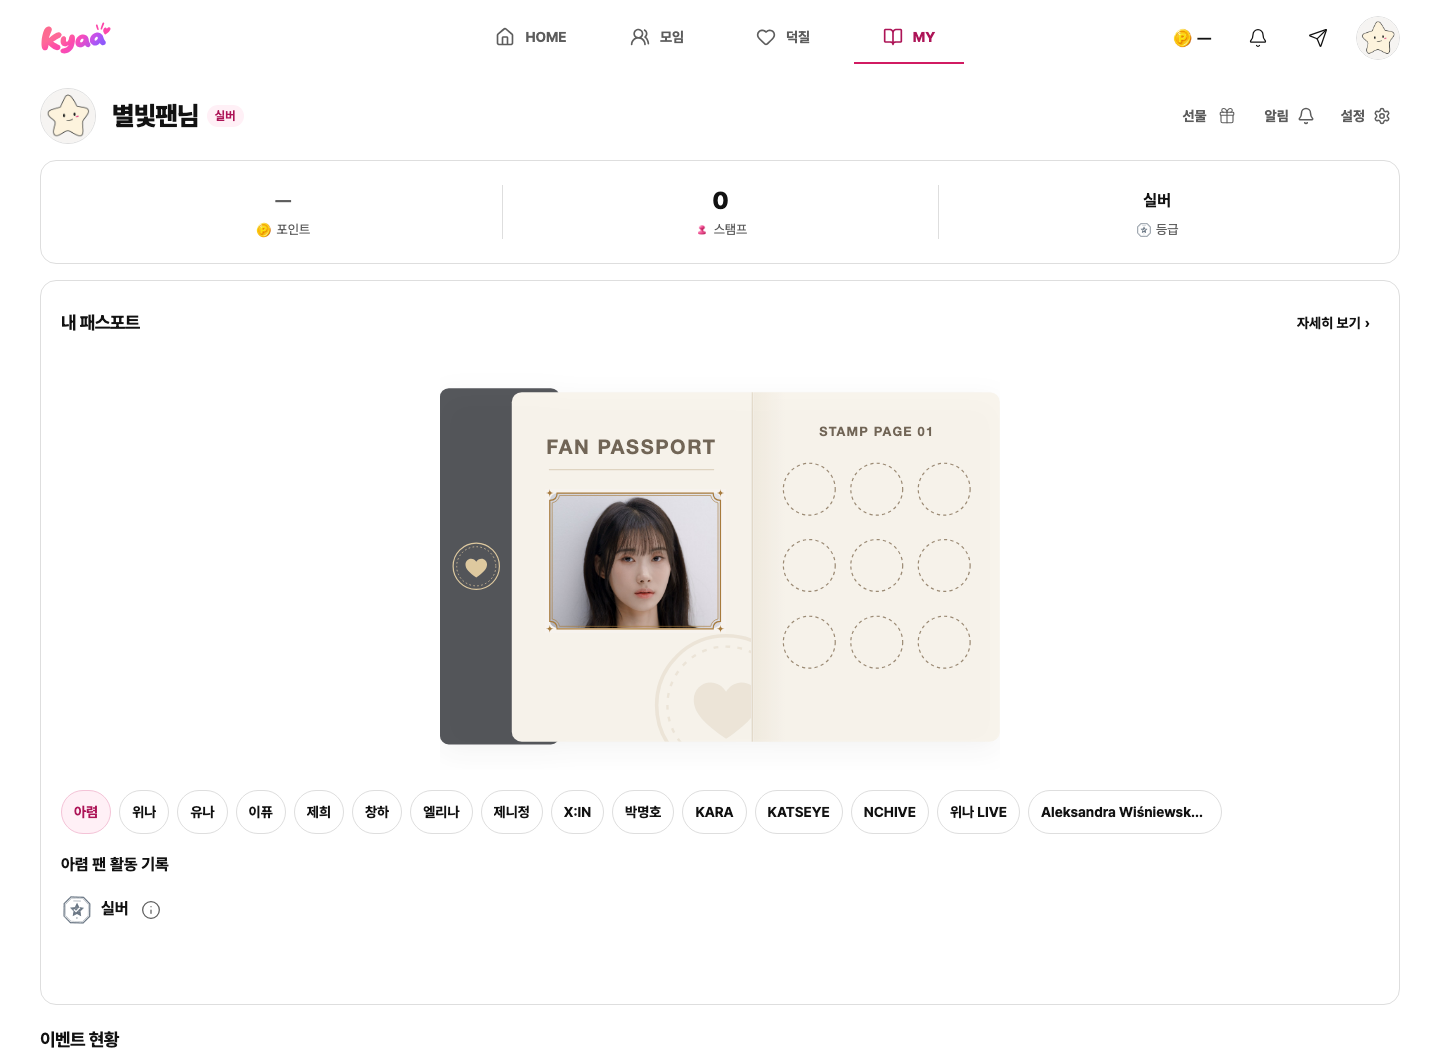
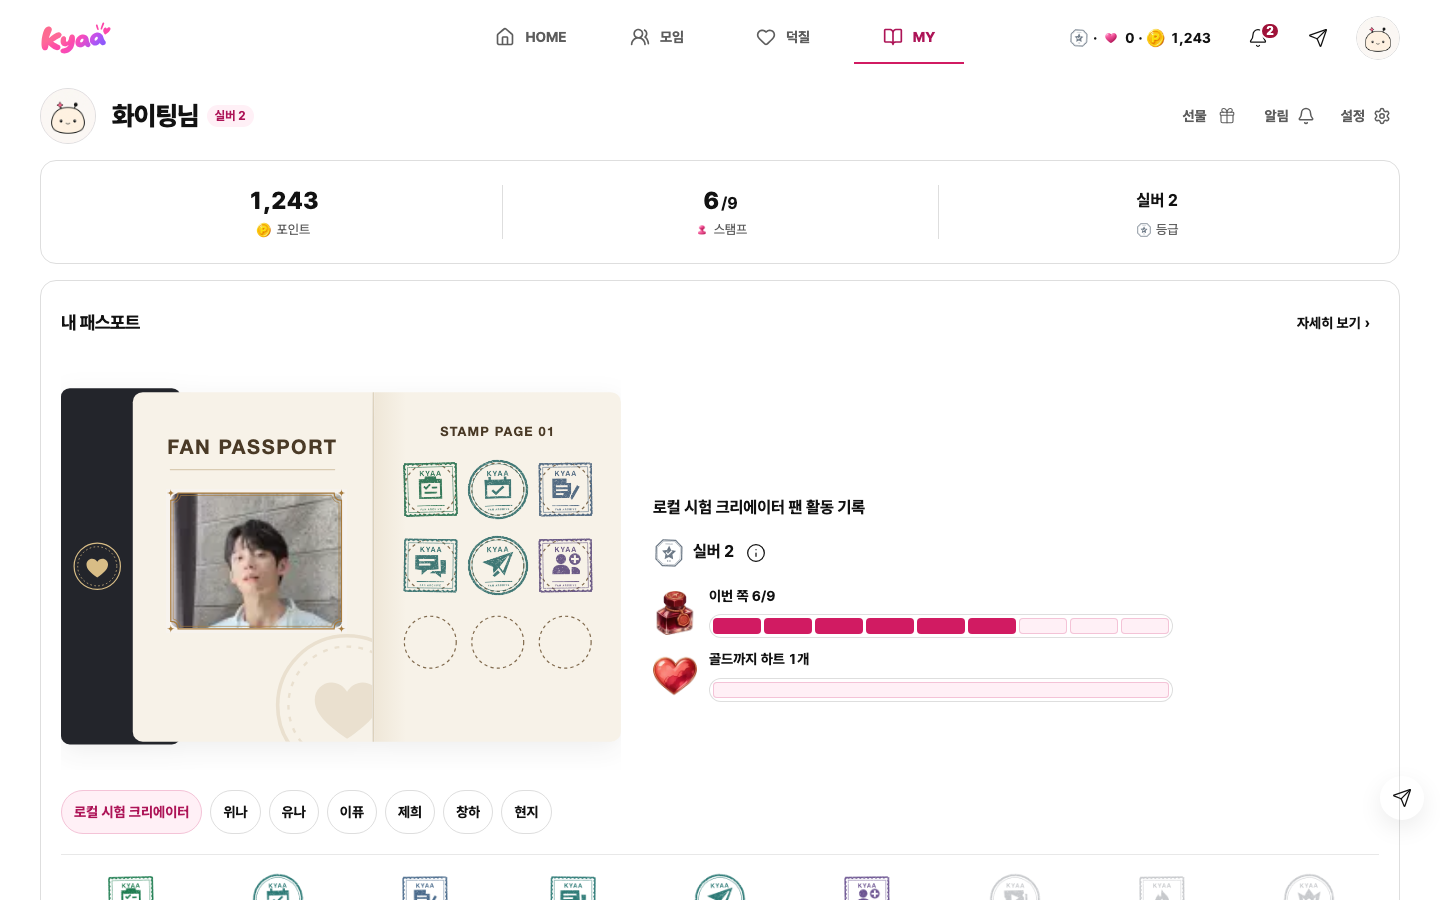
Fix MY profile alignment and desktop passport layout

diff --git a/apps/web/features/my/ui/my-passport-card.tsx b/apps/web/features/my/ui/my-passport-card.tsx
@@ -167,7 +167,7 @@ function PassportCreatorSelector({ selected, ordered, label, onSelect }: {
     chips.forEach((chip) => observer.observe(chip));
     return () => observer.disconnect();
   });
-  return <div ref={container}>
+  return <div ref={container} className={styles.chipRow}>
     <FanTabs className={styles.selector} variant="chip" label={label} current={selected} items={ordered.map(({ celebrity }) => ({
       key: celebrity.slug, label: <span className={styles.chipName} title={celebrity.name}>{celebrity.name}</span>, onSelect: () => onSelect(celebrity.slug),
     }))} />
@@ -213,7 +213,7 @@ export function MyPassportCardSkeleton({ title }: { title: string }) {
     <header><FanHeading>{title}</FanHeading></header>
     <div className={styles.body} aria-hidden="true">
       <span className={styles.bookSkeleton}><Image src="/images/passport/passport-open-book.svg" alt="" width={1536} height={1024} unoptimized sizes="(max-width:767px) 100vw, 380px" priority /></span>
-      {chips ? <div style={{ visibility: "hidden" }} aria-hidden="true" data-passport-chip-space><FanTabs className={styles.selector} variant="chip" label="" current="" items={[{ key: "space", label: "\u00a0" }]} /></div> : null}
+      {chips ? <div className={styles.chipRow} style={{ visibility: "hidden" }} aria-hidden="true" data-passport-chip-space><FanTabs className={styles.selector} variant="chip" label="" current="" items={[{ key: "space", label: "\u00a0" }]} /></div> : null}
       <div className={styles.facts}><FanSkeleton width="60%" height={24} /><FanSkeleton width="40%" height={32} /><FanSkeleton width="100%" height={40} /><FanSkeleton width="100%" height={40} /></div>
     </div>
     <div className={styles.slots} aria-hidden="true">{Array.from({ length: 9 }, (_, index) => <span className={styles.slot} key={index}><FanSkeleton shape="circle" width={48} height={48} /><FanSkeleton width={40} height={12} /></span>)}</div>

diff --git a/apps/web/features/my/ui/my-screen.module.css b/apps/web/features/my/ui/my-screen.module.css
@@ -371,7 +371,9 @@
 .pencilProfile>a{flex:none;width:56px;height:56px}
 .pencilProfileCopy{flex:1;min-width:0;display:grid;gap:4px}
 .pencilProfileCopy h1{overflow-wrap:anywhere}
-.pencilName{display:flex;flex-wrap:wrap;align-items:center;gap:var(--space-2)}
+.pencilName{display:flex;align-items:center;gap:var(--space-2)}
+.pencilName h1{min-width:0;overflow:hidden;text-overflow:ellipsis;white-space:nowrap}
+.pencilName > span{display:block;flex:none;max-inline-size:55%;overflow:hidden;text-overflow:ellipsis;white-space:nowrap}
 .pencilProfile nav{display:flex;gap:8px;align-items:center}
 .pencilMy .pencilProfile nav>a{min-height:44px;border-radius:12px;border-color:transparent;color:var(--color-muted);padding-inline:8px;font-size:14px}
 .homeRow{display:grid;grid-template-columns:minmax(0,1fr);gap:var(--space-5);align-items:start}
@@ -406,7 +408,7 @@
 
 
 /* Keep the profile and both summary cards on the same outer edges. */
-.pencilSummary { display:grid; gap:var(--space-4); }
+.pencilSummary { display:grid; grid-template-columns:minmax(0,1fr); min-width:0; gap:var(--space-4); }
 .pencilMy .pencilSummary .pencilProfile nav > a { justify-content:center; }
 @media (width < 48rem) {
   .pencilSummary { gap:var(--space-3); }

diff --git a/apps/web/features/my/ui/my-passport-card.module.css b/apps/web/features/my/ui/my-passport-card.module.css
@@ -79,5 +79,8 @@
   .myCard :is(.book, .bookSkeleton) { max-inline-size:380px; margin-inline:auto; }
 }
 @media (min-width:1024px) {
-  .myCard :is(.book, .bookSkeleton) { max-inline-size:560px; }
+  .myCard > .body { grid-template-columns:minmax(0,560px) minmax(0,1fr); column-gap:var(--space-8); }
+  .myCard :is(.book, .bookSkeleton) { max-inline-size:560px; grid-area:1 / 1; }
+  .myCard .chipRow { grid-area:2 / 1; }
+  .myCard .facts { grid-area:1 / 2 / span 2; }
 }

diff --git a/DESIGN.md b/DESIGN.md
@@ -228,6 +228,12 @@ radius-scale: "pill / 16px / 12px / 8px / 50%"
 - 360~1440 어느 폭에서도 가로 넘침·글자 잘림 0. 긴 번역은 잘라내지 않고 높이를 늘린다.
 - 측정: `node apps/web/scripts/measure-responsive.mjs`.
 
+### MY 상단
+
+- 프로필·숫자 요약·패스포트 카드의 바깥선을 맞춘다. 프로필의 아바타·이름과 등급·선물·알림·설정은 같은 중심선에 둔다. 이름과 등급은 한 줄에 두고 긴 이름은 말줄임한다. 등급이 이름 칸의 55%를 넘으면 등급도 말줄임한다. 프로필 높이는 모바일 48px, 데스크톱 56px이다.
+- 프로필과 숫자 요약 뒤 간격은 각각 768px 미만 12px, 768px 이상 16px이다. 모바일은 패스포트 그림 → 최애 칩 → 팬 활동 기록 순으로 놓고 390×844 첫 화면에 펼친 그림 전체를 보여준다.
+- 1024px 이상은 왼쪽 최대 560px에 패스포트 그림과 최애 칩, 오른쪽에 팬 활동 기록을 둔다. 최애 칩은 공통 `FanTabs`에 선택한 최애부터 한 줄에 온전히 들어가는 만큼 표시하며, 긴 칩 이름은 최대폭에서 말줄임한다. 여러 장이면 ‘자세히 보기’에서 전체 목록을 연다.
+
 ## 9. 동적 요소와 모션 (사용자 11/13 "항상 모든 페이지에 동적인게 있으면 좋겠는데, 권장 three.js / 최소 animation")
 
 **모든 페이지에 살아 있는 요소가 1개 이상 있다.** 절제한다 — 한 화면에서 눈에 띄게 움직이는 것은 하나.
@@ -2089,9 +2095,8 @@ UI018 섹션 구분은 흰 배경과 기존 경계색을 유지하며 자산 요
 - FanAction 로딩 스피너는 절대 배치가 아니라 라벨 뒤 flex 자식이며 trailing 아이콘 자리를 대신한다(글자·아이콘과 겹치지 않는다). 패딩은 `8px 18px`, 최소 높이 44px이다. Link 분기는 비활성·로딩이 불가하다. 아이콘은 반드시 `leadingIcon`/`trailingIcon`으로 넘긴다(자식으로 넣으면 글자 위에 쌓인다).
 - 공통 오류 화면 "다시 시도"는 `leadingIcon`으로 글자 앞에 한 줄로 놓는다.
 - 덕질 홈 제목 행에 짧은 `내역` 링크 하나만 둔다(`/my/wallet#wallet-history`). 잔액 요약 카드에는 내역 버튼이 없다. 이동 링크는 text FanAction이며 화살표는 제목 행 오른쪽이다.
-- MY 홈: 패스포트는 인라인(embedded)으로 보인다. 상단 유틸리티는 알림·설정만이고 신고·문의는 활동 영역에 둔다. 프로필 행은 이름·알림·설정만, 비로그인은 로그인 화면과 같은 구역을 유지하고 내 값은 `FanLockedValue`·`FanLockedRows`로 둔다(`비로그인 화면(전 화면)` 행). 패스포트 선택 칩의 이름은 최대폭 말줄임이다.
-- MY 홈 제보 189300(2026-11-18): 이름 옆에는 기존 8px 간격의 등급 태그를 둔다. 390px·1440px에서 한 줄 프로필 높이는 각각 48px·56px이고, 다음 구역까지 기존 20px·24px 간격을 둔다. 이름 아래로 밀리던 44px 등급 안내 버튼은 프로필 줄에서 빼고 요약 등급 칸과 패스포트 등급 옆에서 안내를 연다. 패스포트 칩은 공통 `FanTabs` 한 줄로 표시하고 현재 선택을 첫 칸에 둔다. 제보 189300의 23:4x 수정본에 따라 프로필과 숫자·패스포트 카드의 좌우 외곽선을 맞추고, 프로필·숫자 카드 뒤 간격을 각각 8px 줄인다. 패스포트 칩은 그림 아래에 한 줄 분량만 통째로 표시한다. 패스포트가 여러 장이면 기존 ‘자세히 보기’로 전체 패스포트 목록을 연다.
-- MY 홈 제보 189307(2026-11-18): 프로필 요약 → 선택 최애의 패스포트 그림 → 한 줄 최애 칩 → 팬 활동 기록 순이다. 390×844 첫 화면에 펼친 패스포트 전체를 표시한다. PC의 기존 560px 그림은 카드 가운데에 둔다.
+
+- MY 비로그인은 로그인 화면과 같은 구역을 유지하고 내 값은 `FanLockedValue`·`FanLockedRows`로 둔다(`비로그인 화면(전 화면)` 행).
 
 #### Home metadata and empty reservations — 2026-11-03
 
